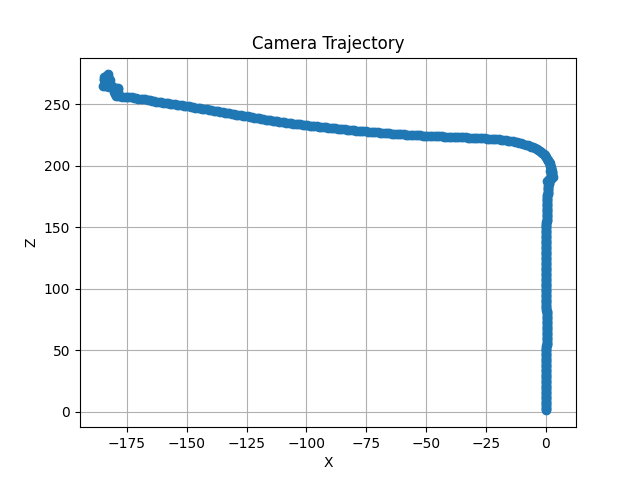
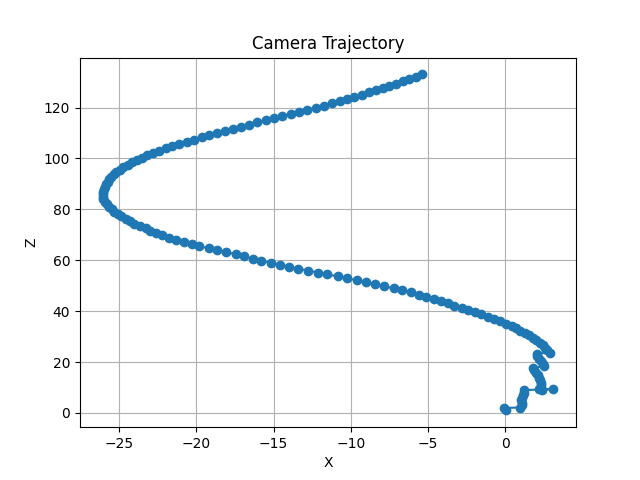
imu_experiments

diff --git a/src/trajectory_imu.py b/src/trajectory_imu.py
@@ -25,3 +25,79 @@ calib_directory = datadir + config["calibdirectory"]
 trajec_display = config["display"]
 
 datasource = config["datasource"]
+
+
+# imudata_keys = ["lat", "lon","alt","roll","pitch","yaw",
+#                 "vn","ve","vf","vl","vu","ax","ay","az",
+#                 "af","al","au","wx","wy","wz","wf","wl",
+#                 "wu","posacc","velacc","navstat","numsats",
+#                 "posmode","velmode","orimode"
+#                 ]
+
+def read_imu_data(file_path):
+    sequence_imureadings = np.loadtxt(file_path)
+    accel_data = sequence_imureadings[:, 11:17]
+    gyro_data = sequence_imureadings[:, 17:23]
+    orientation_data = sequence_imureadings[:, 3:6]
+    return accel_data[:,:3], gyro_data[:,:3], orientation_data
+
+def motion_calculation(acceleration_data, gyroscope_data, orientation_data, dt):
+    velocity = np.zeros((acceleration_data.shape[0], 3))
+    position = np.zeros((acceleration_data.shape[0], 3))
+    for i in range(1, acceleration_data.shape[0]):
+        # print("IMAGE ", i)
+        velocity[i] = velocity[i-1] + acceleration_data[i]* dt
+        position[i] = position[i-1] + velocity[i] * dt
+    return velocity, position
+
+def xymotion(velocity,orientation,dt):
+    x,y = 0,0
+    positionxy = [(x,y)]
+    for i in range(len(velocity)):
+        x+= np.cos(orientation[i,2])*velocity[i,0]*dt
+        y+= np.sin(orientation[i,2])*velocity[i,0]*dt
+        positionxy.append((x,y))
+    return positionxy
+
+def plottrajectory_imu(position):
+    fig = plt.figure()
+    ax = fig.add_subplot(111)
+    ax.plot(position[:, 0], position[:, 1])
+    ax.set_xlabel('X')
+    ax.set_ylabel('Y')
+    plt.show()
+
+def main():
+    datasourcefolder = datasource
+    datasourcetxt = datasource.replace('/', '.txt')
+    imudatafolder = inertial_directory +"oxts/"+ datasourcetxt
+    sequence_accel_data, sequence_gyro_data, sequence_orientation_data = read_imu_data(imudatafolder)
+    dt = 1
+    print("SHAPE",sequence_accel_data.shape)
+
+    velocity, position = motion_calculation(sequence_accel_data,sequence_gyro_data,sequence_orientation_data, dt)
+    positionxy = xymotion(velocity,sequence_orientation_data,dt)
+    positionxy = np.array(positionxy)
+    print("TYPE",type(position),type(positionxy))
+    plottrajectory_imu(position)
+    plottrajectory_imu(positionxy)
+    
+
+    # # # Visualize using OpenCV
+    # canvas = np.zeros((500, 500, 3), dtype=np.uint8)
+    # scale = 2  # Scale factor to fit the trajectory into the canvas
+
+    # for i in range(1, len(position)):
+    #     pt1 = (int(position[i-1, 0] * scale + 250), int(position[i-1, 1] * scale + 250))
+    #     pt2 = (int(position[i, 0] * scale + 250), int(position[i, 1] * scale + 250))
+    #     cv2.line(canvas, pt1, pt2, (0, 255, 0), 2)
+
+    # cv2.imshow('Trajectory', canvas)
+    # cv2.waitKey(0)
+    # cv2.destroyAllWindows()
+
+
+
+
+if __name__ == '__main__':
+    main()

diff --git a/src/trajectory_vis.py b/src/trajectory_vis.py
@@ -34,16 +34,21 @@ R_cumulative = np.eye(3)
 t_cumulative = np.zeros((3, 1))
 
 
-def plottrajectory_vo(trajectory):
-    
+def readimages(imagedir,imagecount, id):
+    previous_imagepath = os.path.join(imagedir,str(imagecount[id]))
+    current_imagepath = os.path.join(imagedir,str(imagecount[id+1]))
+    previous_image = cv2.imread(previous_imagepath, cv2.IMREAD_COLOR)[160:,:,:]
+    current_image = cv2.imread(current_imagepath, cv2.IMREAD_COLOR)[160:,:,:]
+    # print("SHAPE",previous_image.shape)
+    return previous_image, current_image
+
+def plottrajectory_vis(trajectory):
     trajectory = np.array(trajectory).squeeze()
     x_coords = trajectory[:, 0]
     y_coords = -trajectory[:, 1]
     z_coords = -trajectory[:, 2]
-
-    # Plot the trajectory
     plt.figure()
-    plt.plot(x_coords, z_coords, marker='o')  # 2D plot for simplicity
+    plt.plot(x_coords, z_coords, marker='o')
     plt.title('Camera Trajectory')
     plt.xlabel('X')
     plt.ylabel('Z')
@@ -100,27 +105,22 @@ def siftfeature(previous_frame, current_frame):
     return R_cumulative, t_cumulative
 
 def main():
-
     trajectory = []
-    img_dirs = os.listdir(datadir)
-    img_dirs = os.listdir(datadir)
+    img_dirs = os.listdir(images_directory)
     img_dirs = sorted(img_dirs)
     for dirs in img_dirs:
         print()
-        imgcounts = os.listdir(datadir+dirs)
+        imgcounts = os.listdir(images_directory+dirs)
         imgcounts = np.sort(imgcounts)
+        print("DADA",images_directory+dirs)
         for id,img in enumerate(imgcounts[1:]):
-            previous_imagepath = os.path.join(datadir+dirs,str(imgcounts[id]))
-            current_imagepath = os.path.join(datadir+dirs,str(imgcounts[id+1]))
-            previous_image = cv2.imread(previous_imagepath, cv2.IMREAD_COLOR)
-            current_image = cv2.imread(current_imagepath, cv2.IMREAD_COLOR)
-
-            R_cumulative, t_cumulative = siftfeature(previous_image,current_image)
+            previous_image,current_image = readimages(images_directory+dirs,imgcounts, id)
+            R_cumulative, t_cumulative = siftfeature(previous_image, current_image)
             trajectory.append(t_cumulative.copy())
             if trajec_display == "step" and id > 0:
-                plottrajectory_vo(trajectory)
+                plottrajectory_vis(trajectory)
         
-        plottrajectory_vo(trajectory)
+        plottrajectory_vis(trajectory)
         
 
 if __name__ == "__main__":

diff --git a/scripts/cartracking.py b/scripts/cartracking.py
@@ -6,7 +6,8 @@ import numpy as np
 import matplotlib.pyplot as plt
 
 sys.path.append(os.path.abspath(os.path.join(os.path.dirname(__file__), '..')))
-from src.trajectory_vis import siftfeature, plottrajectory_vo
+from src.trajectory_vis import *
+from src.trajectory_imu import *
 
 try:
     config_path = '/home/dheeraj/unnon97/carMotion_project/config/main.yaml'
@@ -26,6 +27,15 @@ calib_directory = datadir + config["calibdirectory"]
 trajec_display = config["display"]
 
 datasource = config["datasource"]
+
+def readdata(datadir):
+    datadict = {}
+    read_imu_data
+    readimages
+
+    return datadict
+
+
 
 def main():
     trajectory = []

diff --git a/README.md b/README.md
@@ -1,5 +1,5 @@
-# Car Motion Project
-This project contains scripts that utilise KITTI dataset image frames to track the car throughout the motion using classical computer vision systems.
+# Robot Motion Project
+This project contains scripts that utilise KITTI dataset image frames to track the robot throughout the motion using classical computer vision systems.
 
 ## Topics worked upon in this project
 1. Ego-Motion tracking using features
@@ -20,58 +20,3 @@ The repository contents can be described as follows:
 1. Build a docker container or python virtual-env with recommended python packages. To install the packages, use the requirements.txt file as
 'pip install -r requirements.txt'
 2. Once inside the virtual environment or docker container, we can begin the objective of 3D object pose extraction
-3. To run the complete process as a HTTP server app and request, run './run.sh' shell script once you modify the pose.yaml file in config folder to specify the image to be used.
-4. To run only the pose estimation part for each image, change the directories in yaml file and also the directory names to load the yaml files in script "object_pose_estimation.py" and "utils_cornerextraction.py". Next, run '''python src/object_pose_estimation.py''' to get object position and orientation. To visualise the 3D axes in frame, uncomment lines 142-144 in "object_pose_estimation.py".
-
-<!-- ## Input images
-<p style="display: flex; justify-content: space-between;">
-  <img src="data/place_quality_inputs/0/color.png" style="width: 48%;" />
-  <img src="data/place_quality_inputs/1/color.png" style="width: 48%;" /> 
-</p>
-<p style="display: flex; justify-content: space-between;">
-  <img src="data/place_quality_inputs/2/color.png" style="width: 48%;" /> 
-  <img src="data/place_quality_inputs/3/color.png" style="width: 48%;" /> 
-</p>
-
-<p style="display: flex; justify-content: space-between;">
-  <img src="data/place_quality_inputs/0/depth.png" style="width: 48%;" />
-  <img src="data/place_quality_inputs/1/depth.png" style="width: 48%;" /> 
-</p>
-<p style="display: flex; justify-content: space-between;">
-  <img src="data/place_quality_inputs/2/depth.png" style="width: 48%;" /> 
-  <img src="data/place_quality_inputs/3/depth.png" style="width: 48%;" /> 
-</p> -->
-
-
-## Output
-Based on the input image samples shown above, we run the PnP algorithm to extract the object position and orientation using classical computer vision methods. More output images are in the folder "output_images".
-
-The output value of position and orientation of the object in above shown image is: 
-
-<!-- ### object Pose in image
-<p style="display: flex; justify-content: space-between;">
-  <img src="output_images/object_poses//0_object_pose.jpg" style="width: 48%;" />
-  <img src="output_images/object_poses//1_object_pose.jpg" style="width: 48%;" />
-</p>
-<p style="display: flex; justify-content: space-between;">
-  <img src="output_images/object_poses//2_object_pose.jpg" style="width: 48%;" /> 
-  <img src="output_images/object_poses//3_object_pose.jpg" style="width: 48%;" /> 
-</p> -->
-
-
-The calculated position and orientation of the object for each image is
-1. Image 0:
-    * Position: [0.00805696 0.03652409 0.36702799]
-    * Orientation: [91.16790437 -0.26187287 -0.13841589]
-
-2. Image 1:
-    * Position: [0.0082818  0.03977524 0.36663242]
-    * Orientation: [ 8.90161177e+01 -3.61514251e-02  5.50943923e-03]
-
-3. Image 2:
-    * Position:  [0.00819917 0.03399753 0.36674328]
-    * Orientation: [ 9.29081367e+01 -2.54369589e-01 -7.10254744e-02]
-
-4. Image 3:
-    * Position: [0.00792732 0.03702736 0.3672435 ]
-    * Orientation: [89.91971714 -1.00304544  0.34618421]
